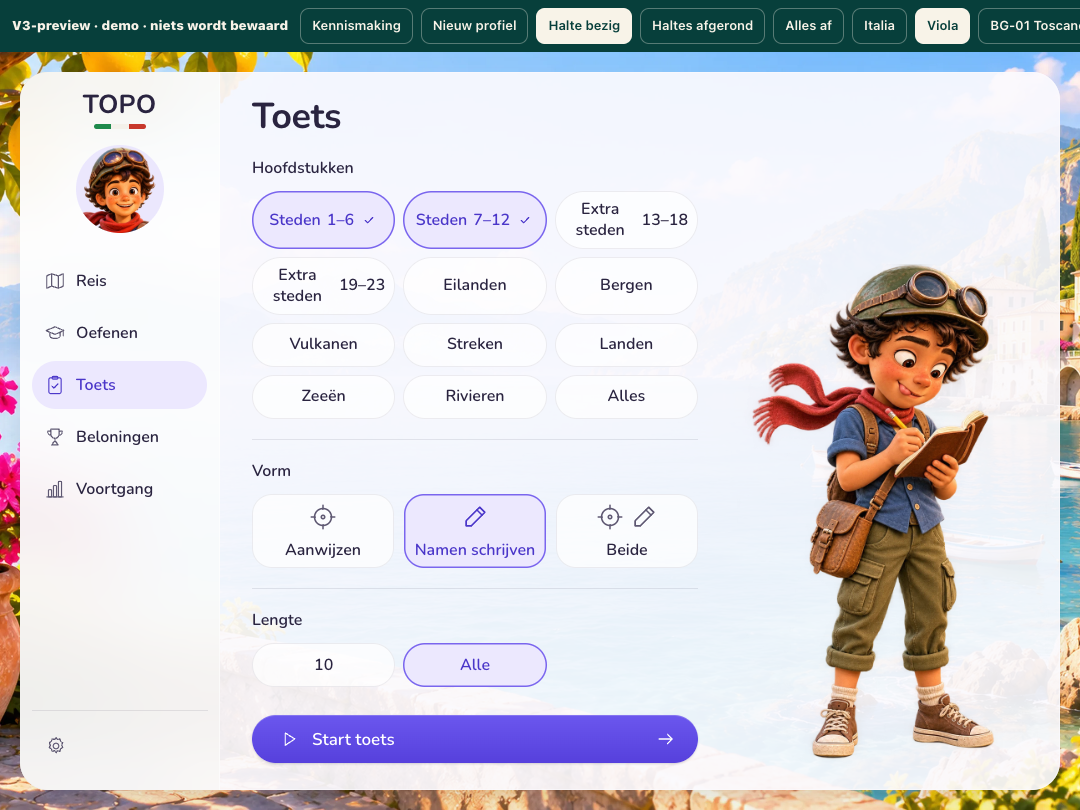
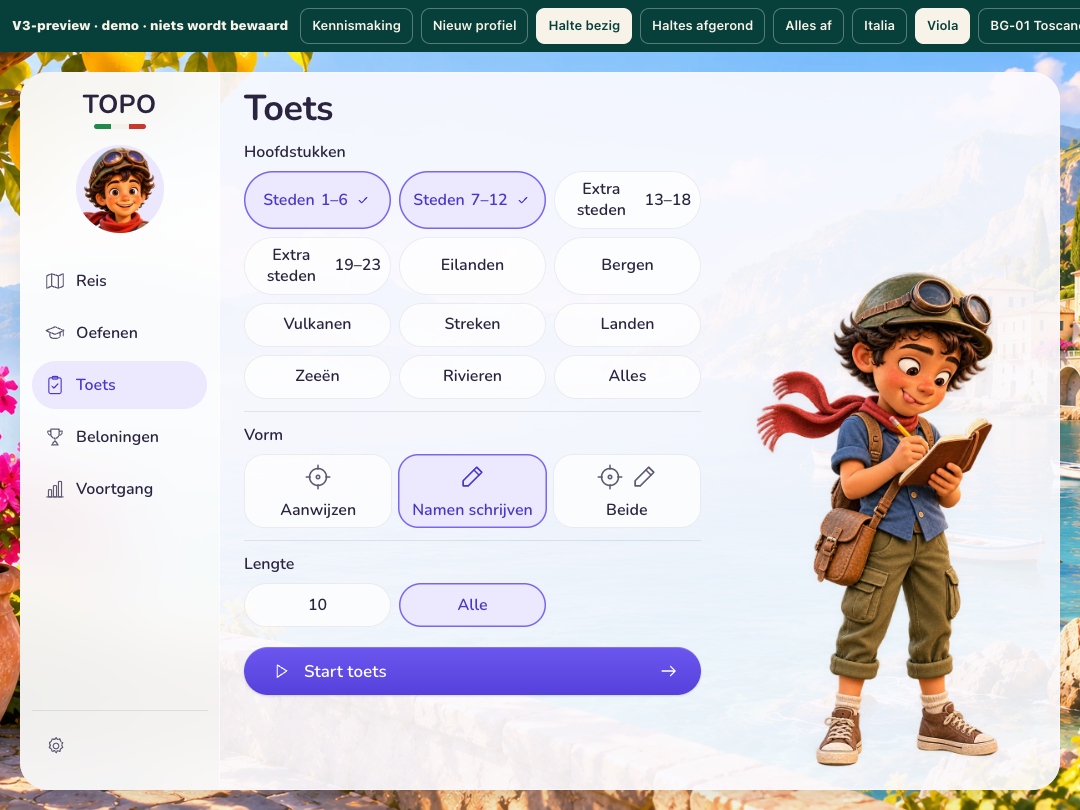
fix(v3): geef iPad een eigen leesbaar landschapbreakpoint (ronde 3 punt 4)

diff --git a/scripts/v3/ronde3.css b/scripts/v3/ronde3.css
@@ -9,3 +9,16 @@
 .v3 .v3ToetsSetup :is(.v3Chip,.v3FormBtn){min-width:44px;min-height:44px;height:auto;white-space:normal;line-height:1.3;padding:8px 10px;touch-action:manipulation;pointer-events:auto}
 .v3ToetsSetup :is(.v3Icon,.v3FormIcons){pointer-events:none;flex-shrink:0}
 .v3ToetsSetupNino{pointer-events:none}
+
+/* Dedicated 1080 × 810 landscape scale: retain readable type, spend less space on gaps. */
+@media (min-width:1024px) and (max-width:1119px){
+ .v3,body.v3Les{--v3-inner:16px;--v3-gut:12px;--v3-display:700 36px/1.15 var(--v3-font);--v3-card-title:700 28px/1.2 var(--v3-font);--v3-row:600 16px/22px var(--v3-font);--v3-second:500 13px/18px var(--v3-font)}
+ .v3Reis[data-view=reis] .v3Main>.v3Top{flex-wrap:wrap;gap:8px;padding:0}
+ .v3Reis .v3MapTools{gap:6px;max-width:100%}
+ .v3ToetsSetup{gap:12px}
+ .v3ToetsSetup .v3Field{gap:8px}
+ .v3ToetsSetup .v3Field+.v3Field{padding-top:12px}
+ .v3ToetsSetup .v3ToetsForms{gap:6px}
+ .v3ToetsSetup .v3FormBtn{padding:8px 6px}
+ .v3 :is(.v3Btn,.v3Chip,.v3FormBtn){max-width:100%;overflow-wrap:break-word}
+}

diff --git a/scripts/qa-v3-ronde3.py b/scripts/qa-v3-ronde3.py
@@ -24,10 +24,12 @@ async def check(p,n,touch):
   assert await p.locator('#schoolbladDialog').evaluate('n=>n.open')
   await p.keyboard.press('Escape')
   if touch:assert await p.locator('.v3SchoolBtn span').evaluate('n=>n.getBoundingClientRect().width')>30
- if n==3:
+ if n in (3,4):
   await q.goto(p,'toets')
   bad=await p.locator('.v3ToetsSetup button').evaluate_all("nodes=>nodes.filter(n=>{const r=n.getBoundingClientRect();return r.width<44||r.height<44||n.scrollWidth>n.clientWidth+1}).map(n=>n.textContent)")
   assert not bad,bad
+  if n==4:
+   assert await p.locator('.v3ToetsSetup').evaluate('n=>n.getBoundingClientRect().bottom<=innerHeight && n.scrollWidth<=n.clientWidth+1')
   await act(p,'.v3ToetsForms [data-value=write]',touch)
   assert await p.locator('.v3ToetsForms [data-value=write]').get_attribute('aria-pressed')=='true'
   await act(p,'[aria-labelledby=v3ToetsHoofdstukken] [data-group=city2]',touch)
